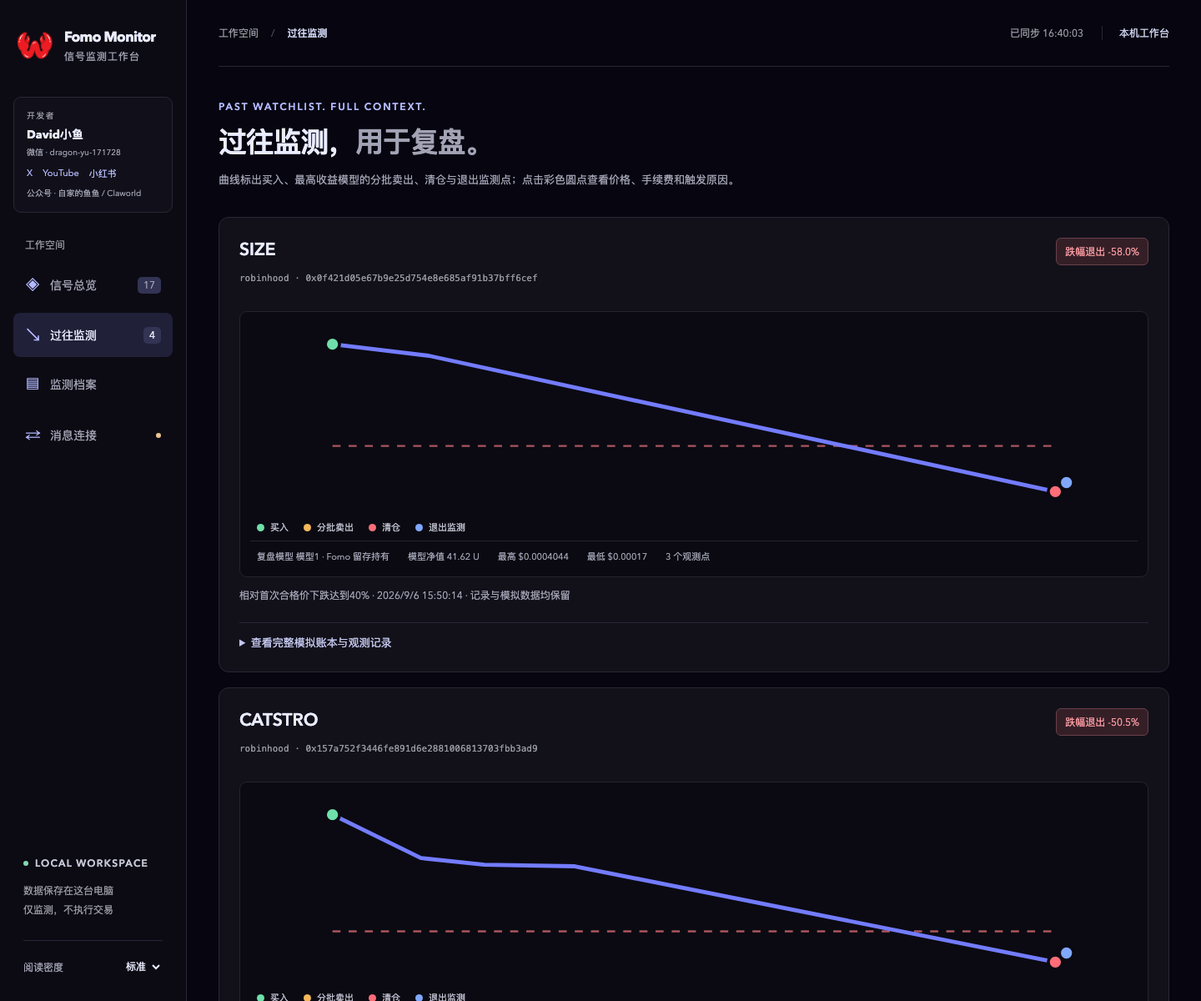
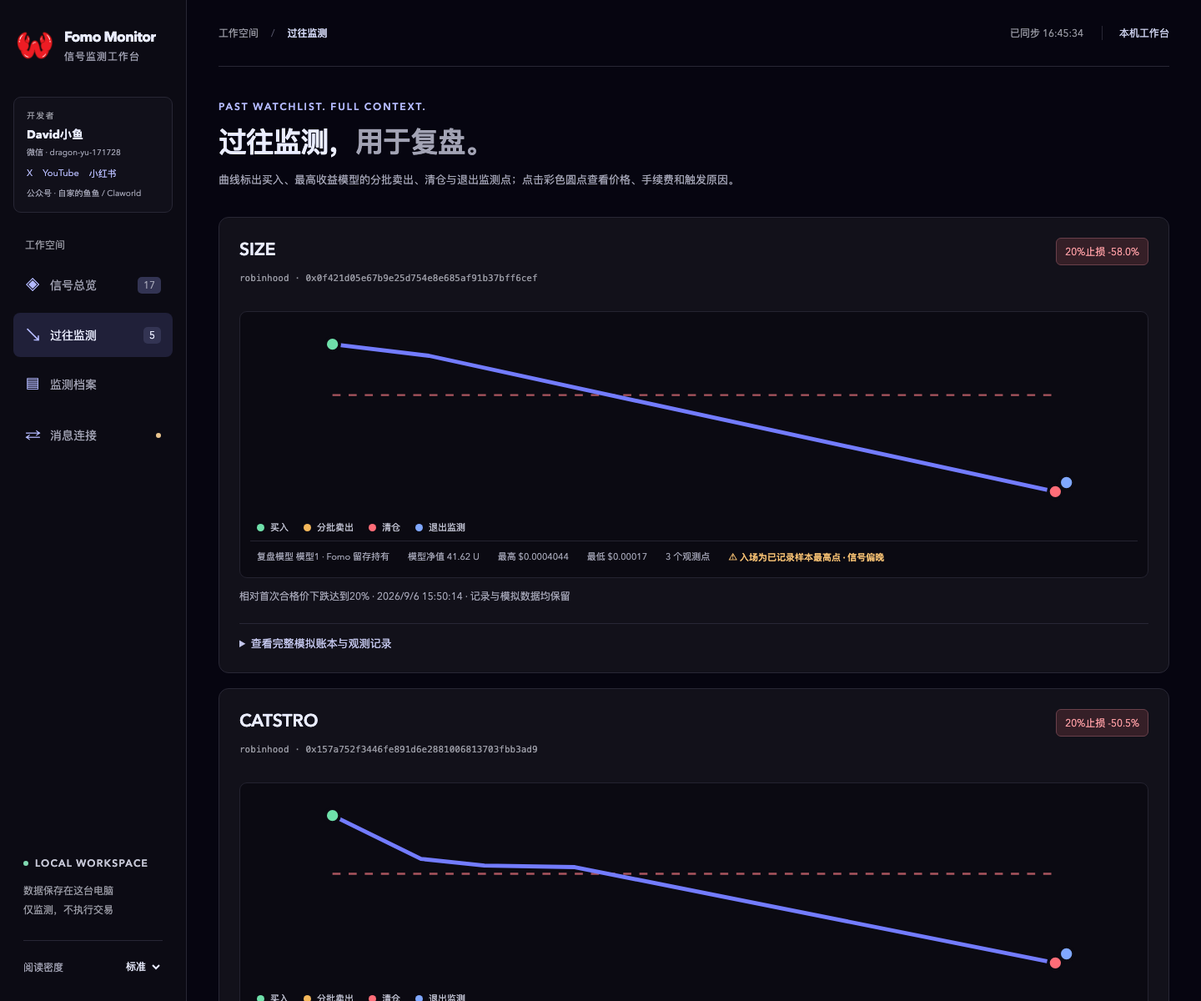
Tighten stop loss and filter late entries

diff --git a/monitor/static/portfolio.js b/monitor/static/portfolio.js
@@ -68,7 +68,7 @@ function priceCurve(t){
  if(!prices.length)return root;
  const models=t.simulation?.models||[],best=models.reduce((winner,m)=>!winner||m.net_value>winner.net_value?m:winner,null);
  const clearReasons=new Set(['stop_loss','fomo_below_15','fomo_retention']);
- const actionNames={recover_principal:'2倍回本卖出',halve_at_4x:'4倍卖出剩余一半',runner_recover:'2.5倍目标回收',stop_loss:'跌幅40%清仓',fomo_below_15:'Fomo低于15%清仓',fomo_retention:'Fomo留存条件清仓'};
+ const actionNames={recover_principal:'2倍回本卖出',halve_at_4x:'4倍卖出剩余一半',runner_recover:'2.5倍目标回收',stop_loss:'跌幅20%强制止损',fomo_below_15:'Fomo低于15%清仓',fomo_retention:'Fomo留存条件清仓'};
  const markers=[];
  if(best){
   for(const tx of best.trades||[]){
@@ -77,12 +77,12 @@ function priceCurve(t){
   }
  }
  if(t.archive?.archived_at)markers.push({kind:'archive',time:t.archive.archived_at,price:Number.isFinite(t.archive.trigger_price)?t.archive.trigger_price:t.latest.price,title:'退出监测'});
- const markerPrices=markers.map(m=>m.price).filter(Number.isFinite),low=Math.min(...prices,...markerPrices,t.entry.price*.60),high=Math.max(...prices,...markerPrices,t.entry.price),span=high-low||high*.01||1;
+ const markerPrices=markers.map(m=>m.price).filter(Number.isFinite),low=Math.min(...prices,...markerPrices,t.entry.price*.80),high=Math.max(...prices,...markerPrices,t.entry.price),span=high-low||high*.01||1;
  const sampleTimes=samples.map(s=>new Date(s.observed_at).getTime()),start=Math.min(...sampleTimes),end=Math.max(...sampleTimes),timeSpan=end-start;
  const xTime=time=>{const ms=new Date(time).getTime();return p+(w-p*2)*(timeSpan&&Number.isFinite(ms)?Math.max(0,Math.min(1,(ms-start)/timeSpan)):.5);};
  const x=(s,i)=>timeSpan?xTime(s.observed_at):p+(w-p*2)*(samples.length===1?.5:i/(samples.length-1)),y=v=>p+(h-p*2)*(high-v)/span;
  const svg=document.createElementNS('http://www.w3.org/2000/svg','svg');svg.setAttribute('viewBox',`0 0 ${w} ${h}`);svg.setAttribute('role','group');svg.setAttribute('aria-label',t.name+' 历史价格曲线与交易节点');
- const stop=document.createElementNS(svg.namespaceURI,'line');for(const [k,v] of Object.entries({x1:p,x2:w-p,y1:y(t.entry.price*.60),y2:y(t.entry.price*.60)}))stop.setAttribute(k,v);stop.setAttribute('class','stop-line');svg.append(stop);
+ const stop=document.createElementNS(svg.namespaceURI,'line');for(const [k,v] of Object.entries({x1:p,x2:w-p,y1:y(t.entry.price*.80),y2:y(t.entry.price*.80)}))stop.setAttribute(k,v);stop.setAttribute('class','stop-line');svg.append(stop);
  const path=document.createElementNS(svg.namespaceURI,'polyline');path.setAttribute('points',samples.map((s,i)=>x(s,i)+','+y(s.price)).join(' '));path.setAttribute('class','price-line');svg.append(path);
  const note=el('div','marker-note');note.hidden=true;
  const showMarker=m=>{
@@ -98,14 +98,14 @@ function priceCurve(t){
  markers.forEach(m=>{const baseX=xTime(m.time),baseY=y(m.price),key=Math.round(baseX)+'/'+Math.round(baseY),slot=occupied.get(key)||0;occupied.set(key,slot+1);const offsets=[[0,0],[11,-9],[-11,9],[17,8],[-17,-8]],offset=offsets[slot%offsets.length];const group=document.createElementNS(svg.namespaceURI,'g');group.setAttribute('class','chart-marker marker-'+m.kind);group.setAttribute('role','button');group.setAttribute('tabindex','0');group.setAttribute('aria-label',m.title+'，价格 '+fmtPrice(m.price));group.setAttribute('transform',`translate(${baseX+offset[0]} ${baseY+offset[1]})`);const hit=document.createElementNS(svg.namespaceURI,'circle');hit.setAttribute('r','13');hit.setAttribute('class','marker-hit');const dot=document.createElementNS(svg.namespaceURI,'circle');dot.setAttribute('r','7');dot.setAttribute('class','marker-dot');group.append(hit,dot);group.addEventListener('click',()=>showMarker(m));group.addEventListener('keydown',e=>{if(e.key==='Enter'||e.key===' '){e.preventDefault();showMarker(m);}});svg.append(group);});
  root.append(svg);
  const legend=el('div','chart-legend');for(const [kind,label] of [['buy','买入'],['sell','分批卖出'],['clear','清仓'],['archive','退出监测']]){const item=el('span','');item.append(el('i','legend-dot '+kind),document.createTextNode(label));legend.append(item);}root.append(legend);
- const meta=el('div','chart-meta');meta.append(el('span','',`复盘模型 ${best?modelNames[best.id]||best.id:'—'}`),el('span','',`模型净值 ${best?fmtU(best.net_value):'—'}`),el('span','',`最高 ${fmtPrice(Math.max(...prices))}`),el('span','',`最低 ${fmtPrice(Math.min(...prices))}`),el('span','',`${samples.length} 个观测点`));root.append(meta,note);return root;
+ const meta=el('div','chart-meta'),entryAtSamplePeak=t.entry.price>=Math.max(...prices)*.999;meta.append(el('span','',`复盘模型 ${best?modelNames[best.id]||best.id:'—'}`),el('span','',`模型净值 ${best?fmtU(best.net_value):'—'}`),el('span','',`最高 ${fmtPrice(Math.max(...prices))}`),el('span','',`最低 ${fmtPrice(Math.min(...prices))}`),el('span','',`${samples.length} 个观测点`));if(entryAtSamplePeak)meta.append(el('span','entry-quality-warning','⚠ 入场为已记录样本最高点 · 信号偏晚'));root.append(meta,note);return root;
 }
 function renderHistory(){
  if(!portfolioData)return;const rows=portfolioData.history||[],root=$('historyList');root.replaceChildren();$('historyCount').textContent=rows.length;
  if(!rows.length){root.append(el('div','empty','暂无退出主清单的标的'));return;}
  for(const t of rows){
   const card=el('article','history-card'),head=el('div','history-head'),identity=el('div');identity.append(el('h2','',t.name),el('p','',t.chain+' · '+t.ca));
-  const change=t.archive.trigger_change_percent;head.append(identity,el('span','history-reason',t.archive.kind==='price_stop'?'跌幅退出 '+fmtPct(change):'资格退出'));card.append(head,priceCurve(t));
+  const change=t.archive.trigger_change_percent;head.append(identity,el('span','history-reason',t.archive.kind==='price_stop'?'20%止损 '+fmtPct(change):'资格退出'));card.append(head,priceCurve(t));
   const note=el('p','history-note',t.archive.reason+' · '+new Date(t.archive.archived_at).toLocaleString('zh-CN')+' · 记录与模拟数据均保留');card.append(note);
   const detail=el('details','history-detail');detail.append(el('summary','','查看完整模拟账本与观测记录'),tokenDetail(t));card.append(detail);root.append(card);
  }
@@ -117,7 +117,7 @@ function tokenDetail(t){
  for(const m of t.simulation.models){
   const card=el('section','model-box');card.append(el('h4','',modelNames[m.id]||m.id),el('strong',m.pnl>=0?'profit':'loss',signedU(m.pnl)));
   for(const [label,value] of [['已回收净现金',fmtU(m.cash)],['剩余代币',m.remaining_percent.toFixed(2)+'%'],['剩余仓位市值',fmtU(m.remaining_gross_value)],['已扣平台费用',fmtU(m.paid_fees)],['剩余仓位预估平台费',fmtU(m.liquidation_fee)],['平台费后估算总值',fmtU(m.net_value)]]){const line=el('div','model-line');line.append(el('span','',label),el('b','',value));card.append(line);}
-  card.append(el('p','fee-explainer',({stop_loss:'已按40%跌幅线清仓退出',fomo_below_15:'Fomo 确认低于15%，已按当次观测价清仓全部',fomo_retention:'连续两次留存条件成立，已退出',principal_recovered_then_halved:'已回本，并在后续4倍观测减半',principal_recovered:'已净收回100U，等待后续4倍',principal_recovery_unreachable:'费用过高，当前仓位不足以净回本',runner_recover_100:'已净收100U，剩余仓位继续持有',runner_recover_110:'已净收110U，剩余仓位继续持有',runner_recovery_unreachable:'费用过高，当前仓位不足以完成回收',no_2x_observed:'尚未观测到2倍',no_2_5x_observed:'尚未观测到2.5倍',no_exit_trigger:'尚未满足退出条件'})[m.reason]||m.status));
+  card.append(el('p','fee-explainer',({stop_loss:'已按20%强制止损线清仓退出',fomo_below_15:'Fomo 确认低于15%，已按当次观测价清仓全部',fomo_retention:'连续两次留存条件成立，已退出',principal_recovered_then_halved:'已回本，并在后续4倍观测减半',principal_recovered:'已净收回100U，等待后续4倍',principal_recovery_unreachable:'费用过高，当前仓位不足以净回本',runner_recover_100:'已净收100U，剩余仓位继续持有',runner_recover_110:'已净收110U，剩余仓位继续持有',runner_recovery_unreachable:'费用过高，当前仓位不足以完成回收',no_2x_observed:'尚未观测到2倍',no_2_5x_observed:'尚未观测到2.5倍',no_exit_trigger:'尚未满足退出条件'})[m.reason]||m.status));
   const trades=el('details');trades.append(el('summary','', '逐笔模拟交易 · '+m.trades.length+' 笔'));
   for(const tx of m.trades){const p=el('div','trade-item');p.textContent=(tx.type==='buy'?'买入':tx.type==='sell'?'卖出':tx.type)+' · '+tx.time+'\n价格 '+fmtPrice(tx.price)+' / 平台费 '+fmtU(tx.fee)+'（'+(tx.effective_fee_rate*100).toFixed(3)+'%）'+' / 净额 '+fmtU(tx.net);trades.append(p);}card.append(trades);grid.append(card);
  }

diff --git a/monitor/static/index.html b/monitor/static/index.html
@@ -13,7 +13,7 @@
 <div class="page-heading"><div><div class="eyebrow">YOUR SIGNAL. YOUR EDGE.</div><h1>从首次命中，<span>看到费后收益。</span></h1><p>每个标的 100U · 三套策略平行回放 · 每次卖出单独扣费</p></div><button id="refresh" class="primary refresh-button">↻&nbsp; 立即核验</button></div>
 <section class="portfolio-summary"><article><label>每个标的投入</label><strong>100 <small>U</small></strong><p id="portfolioInvested">等待载入基线</p></article><article><label>后续价格覆盖</label><strong id="portfolioCoverage">—</strong><p>没有后续价格时明确标为待采样</p></article><article><label>选中模型 · 平台费后估算盈亏</label><strong id="portfolioPnl">—</strong><p id="portfolioScope">不含仅有入场样本的标的</p></article></section>
 <div class="metrics"><article><span class="metric-label">本地已记录命中</span><strong id="hitCount">—</strong><small>最近 100 条事件中的新信号</small></article><article><span class="metric-label">等待推送</span><strong id="pending">—</strong><small><span id="sent">0</span> 条已完成全部通道推送</small></article><article class="channel-metric"><span class="metric-label">消息通道</span><strong id="deliveryStatus">等待配置</strong><small id="deliveryDetail">飞书与 Telegram 可同时推送</small><button class="text-button" data-view="connect">管理连接 ↗</button></article></div>
-<div class="overview-grid"><div class="signal-area"><div class="section-head"><div><h2>持仓观察 <span id="portfolioCount"></span></h2><p>下跌达到40%立即转入过往监测；资格变化连续3轮不符合后转入</p></div><input id="search" type="search" aria-label="搜索名称或合约" placeholder="搜索名称 / CA"></div><div class="filter-tabs" role="group" aria-label="筛选信号"><button class="selected" data-filter="all">全部</button><button data-filter="strong">强信号</button><button data-filter="watch">观察信号</button><button data-filter="pending">待推送</button></div><section class="model-controls"><label>观察模型<select id="modelSelect"><option value="hold">模型1 · Fomo 留存持有</option><option value="recover2" selected>模型2 · 2倍回本 / 4倍减半</option><option value="runner25">模型3A · 2.5倍净收100U</option><option value="runner25_110">模型3B · 2.5倍净收110U</option></select></label><span>按标的所在链 · 每笔金额独立计费</span><input id="buyFee" value="6" type="hidden"><input id="sellFee" value="6" type="hidden"><button id="recalculate" class="secondary">刷新计算</button></section>
+<div class="overview-grid"><div class="signal-area"><div class="section-head"><div><h2>持仓观察 <span id="portfolioCount"></span></h2><p>相对模拟买入价下跌20%立即止损；资格变化连续3轮不符合后转入</p></div><input id="search" type="search" aria-label="搜索名称或合约" placeholder="搜索名称 / CA"></div><div class="filter-tabs" role="group" aria-label="筛选信号"><button class="selected" data-filter="all">全部</button><button data-filter="strong">强信号</button><button data-filter="watch">观察信号</button><button data-filter="pending">待推送</button></div><section class="model-controls"><label>观察模型<select id="modelSelect"><option value="hold">模型1 · Fomo 留存持有</option><option value="recover2" selected>模型2 · 2倍回本 / 4倍减半</option><option value="runner25">模型3A · 2.5倍净收100U</option><option value="runner25_110">模型3B · 2.5倍净收110U</option></select></label><span>按标的所在链 · 每笔金额独立计费</span><input id="buyFee" value="6" type="hidden"><input id="sellFee" value="6" type="hidden"><button id="recalculate" class="secondary">刷新计算</button></section>
 <p class="fee-explainer">按当前官方平台费用规则回放：BSC/Robinhood等每笔0.5%，Solana按每笔金额分档。网络费（Solana由平台承担）、代币税费及价格冲击未完整核验，显示的是平台费后估算收益，不是全部成本后的实际收益。</p>
 <div class="portfolio-toolbar"><span id="portfolioStatus">正在读取观测账本…</span><label>排序 <select id="portfolioSort"><option value="profit_desc">净盈亏从高到低</option><option value="profit_asc">净盈亏从低到高</option><option value="recent">最新采样</option><option value="waiting">待采样优先</option></select></label></div>
 <div id="portfolioTable"></div><p class="fee-explainer">点击一行「比较模型」查看四个分支的收益、剩余仓位和逐笔买卖费用。模型3的两个分支是对照方案，不重复计入投入。</p>

diff --git a/monitor/static/style.css b/monitor/static/style.css
@@ -10,3 +10,4 @@
 .history-card{background:var(--panel);border:1px solid var(--line);border-radius:12px;padding:24px;margin-bottom:18px}.history-head{display:flex;align-items:flex-start;justify-content:space-between;gap:18px}.history-head h2{font-size:21px}.history-head p{font:11px/1.7 Menlo,monospace;color:var(--quiet);overflow-wrap:anywhere}.history-reason{color:#ff9fa5;background:#351f27;border:1px solid #69404a;border-radius:6px;padding:7px 10px;font-size:12px;white-space:nowrap}.history-chart{margin:18px 0 12px;background:#0b0a12;border:1px solid #242330;border-radius:9px;padding:12px}.history-chart svg{display:block;width:100%;height:auto;max-height:230px}.price-line{fill:none;stroke:#737cff;stroke-width:4;stroke-linecap:round;stroke-linejoin:round}.stop-line{stroke:#df6f78;stroke-width:2;stroke-dasharray:8 8;opacity:.75}.chart-meta{display:flex;flex-wrap:wrap;gap:10px 22px;color:var(--muted);font-size:11px;padding:4px 8px}.history-note{font-size:12px;color:var(--muted);line-height:1.8}.history-detail{border-top:1px solid var(--line);padding-top:14px}.history-detail>.token-detail{margin-top:18px}@media(max-width:800px){.history-card{padding:17px}.history-head{display:block}.history-reason{display:inline-block;margin-top:8px}.chart-meta{gap:6px 12px}}
 .positions-table tr.fomo-exit{background:linear-gradient(90deg,rgba(196,51,67,.20),rgba(106,24,35,.06))}.positions-table tr.fomo-exit td:first-child{box-shadow:inset 4px 0 #e05f6a}.exit-badge{color:#ffe4e6;background:#5b202a;border:1px solid #d34f5d;font-weight:700}.exit-value .cell-main,.exit-text{color:#ff969e!important;font-weight:700}.exit-text{font-size:11px;margin-top:7px}
 .chart-marker{cursor:pointer;outline:none}.marker-hit{fill:transparent}.marker-dot{stroke:#0b0a12;stroke-width:3;transition:r .15s,filter .15s}.marker-buy .marker-dot,.legend-dot.buy,.marker-note-dot.buy{fill:#6fe0aa;background:#6fe0aa}.marker-sell .marker-dot,.legend-dot.sell,.marker-note-dot.sell{fill:#f5b85b;background:#f5b85b}.marker-clear .marker-dot,.legend-dot.clear,.marker-note-dot.clear{fill:#ff6d78;background:#ff6d78}.marker-archive .marker-dot,.legend-dot.archive,.marker-note-dot.archive{fill:#80a8ff;background:#80a8ff}.chart-marker:hover .marker-dot,.chart-marker:focus .marker-dot{r:9;filter:drop-shadow(0 0 6px currentColor)}.chart-legend{display:flex;flex-wrap:wrap;gap:8px 18px;padding:8px;color:#c0c2d2;font-size:11px}.chart-legend span{display:flex;align-items:center;gap:7px}.legend-dot,.marker-note-dot{width:9px;height:9px;border-radius:50%;display:inline-block;flex:none}.marker-note{margin:9px 7px 5px;padding:13px 15px;background:#171623;border:1px solid #3c3b52;border-radius:8px}.marker-note-head{display:flex;align-items:center;gap:9px}.marker-note-head strong{font-size:13px}.marker-note-close{margin-left:auto;border:0;background:transparent;color:var(--muted);font-size:20px;line-height:1;padding:0 3px}.marker-note p{margin:8px 0 0;color:var(--muted);font-size:11px;line-height:1.8}.chart-meta{border-top:1px solid #242330;padding-top:10px}
+.entry-quality-warning{color:#f4bf72!important;font-weight:600}

diff --git a/monitor/test_simulation.py b/monitor/test_simulation.py
@@ -57,7 +57,7 @@ class SimulationTests(unittest.TestCase):
                     sample("2026-09-06T00:01:00+00:00", gross / initial_units),
                 ], fee_schedule="solana")
                 model = self.model(result, "hold")
-                if gross / initial_units < entry_price * 0.5:
+                if gross / initial_units <= entry_price * 0.8:
                     trade = model["trades"][1]
                     self.assertAlmostEqual(trade["gross"], gross)
                     self.assertAlmostEqual(trade["fee"], expected_fee)
@@ -218,22 +218,22 @@ class SimulationTests(unittest.TestCase):
         self.assertEqual(model["status"], "exited")
         self.assertAlmostEqual(model["trades"][1]["price"], 14.0)
 
-    def test_forty_percent_stop_is_inclusive_and_terminal(self):
+    def test_twenty_percent_stop_is_inclusive_and_terminal(self):
         result = simulate([
             sample("2026-09-06T00:00:00+00:00", 10.0),
-            sample("2026-09-06T00:01:00+00:00", 6.1),
-            sample("2026-09-06T00:02:00+00:00", 6.0),
+            sample("2026-09-06T00:01:00+00:00", 8.1),
+            sample("2026-09-06T00:02:00+00:00", 8.0),
             sample("2026-09-06T00:03:00+00:00", 40.0),
         ])
         for model in result["models"]:
             self.assertEqual(model["status"], "stopped")
             self.assertTrue(model["terminal"])
             self.assertEqual(len(model["trades"]), 2)
-            self.assertAlmostEqual(model["trades"][1]["price"], 6.0)
+            self.assertAlmostEqual(model["trades"][1]["price"], 8.0)
             self.assertAlmostEqual(model["remaining_units"], 0.0)
         at_boundary = simulate([
             sample("2026-09-06T00:00:00+00:00", 10.0),
-            sample("2026-09-06T00:01:00+00:00", 6.1),
+            sample("2026-09-06T00:01:00+00:00", 8.1),
         ])
         self.assertNotEqual(self.model(at_boundary, "hold")["status"], "stopped")
 

diff --git a/monitor/test_portfolio.py b/monitor/test_portfolio.py
@@ -42,11 +42,11 @@ class PortfolioTests(unittest.TestCase):
   self.assertEqual(portfolio.watch_state([point(1,False,'r1'),point(2,False,'r2'),point(3,False,'r3')])['status'],'removed')
   self.assertEqual(portfolio.watch_state([point(1,False,'r1'),point(2,True,'r2')])['ineligible_streak'],0)
 
- def test_forty_percent_decline_moves_token_to_history_with_samples(self):
+ def test_twenty_percent_decline_moves_token_to_history_with_samples(self):
   portfolio.register(self.base)
-  portfolio.add_sample(dict(self.base,observed_at='2026-09-05T02:00:00+08:00',price=.61,source='gmgn'))
+  portfolio.add_sample(dict(self.base,observed_at='2026-09-05T02:00:00+08:00',price=.81,source='gmgn'))
   self.assertEqual(len(portfolio.report()['tokens']),1)
-  portfolio.add_sample(dict(self.base,observed_at='2026-09-05T03:00:00+08:00',price=.60,source='gmgn'))
+  portfolio.add_sample(dict(self.base,observed_at='2026-09-05T03:00:00+08:00',price=.80,source='gmgn'))
   report=portfolio.report()
   self.assertEqual(report['tokens'],[])
   self.assertEqual(len(report['history']),1)

diff --git a/monitor/portfolio.py b/monitor/portfolio.py
@@ -121,11 +121,11 @@ def watch_state(observations):
 
 def archive_state(meta, observations, watch):
     """Return the first terminal archive trigger while preserving every observation."""
-    stop_price=meta['price']*.60
+    stop_price=meta['price']*.80
     breach=next((sample for sample in observations if sample['price']<=stop_price),None)
     if breach:
         decline=(breach['price']/meta['price']-1)*100
-        return {'archived':True,'reason':'相对首次合格价下跌达到40%',
+        return {'archived':True,'reason':'相对首次合格价下跌达到20%',
                 'kind':'price_stop','archived_at':breach['observed_at'],
                 'trigger_price':breach['price'],'trigger_change_percent':decline}
     if watch['status']=='removed':

diff --git a/monitor/simulation.py b/monitor/simulation.py
@@ -17,7 +17,7 @@ from typing import Any, Dict, List, Optional, Tuple
 
 _RATIO_EXIT = 15.0
 _HOLDER_RETENTION = 0.20
-_STOP_MULTIPLE = 0.60
+_STOP_MULTIPLE = 0.80
 _RECOVER_MULTIPLE = 2.0
 _RUNNER_MULTIPLE = 2.5
 _HALF_MULTIPLE = 4.0

diff --git a/monitor/PORTFOLIO.md b/monitor/PORTFOLIO.md
@@ -6,7 +6,7 @@
 
 每轮对已登记代币刷新真实价格（即使不再满足初筛市值也需跟踪），使用 `python3 monitor/bridge.py sample 文件.json` 写入：chain、ca、observed_at、price、source（如windvane、fomo、gmgn）、fomo_ratio_lower/upper（未核验则不填）、fomo_holders（未核验则不填）、confirmation:false（手动/短周期采样），price_estimated:false，以及note。定时两小时核验才可confirmation:true，程序还会限制两次确认至少间隔两小时。不要携带上一轮Fomo数据充当新核验。仅观察到下界≥14.5%不能确认低于15%；退出需要upper<15或人数低于峰值20%。
 
-全部已登记标的可通过本机 GET http://127.0.0.1:8765/api/portfolio 读取；或在monitor目录调用portfolio.report()。相对首次合格价下跌达到40%的标的立即记终值、模拟清算并转入“过往监测”，不等待3轮；全部样本、账本和曲线继续保留。模型1独立退出不影响其他模型仍未清仓的价格采样。
+全部已登记标的可通过本机 GET http://127.0.0.1:8765/api/portfolio 读取；或在monitor目录调用portfolio.report()。相对模拟买入价下跌达到20%的标的立即记终值、模拟清算并转入“过往监测”，不等待3轮；全部样本、账本和曲线继续保留。模型1独立退出不影响其他模型仍未清仓的价格采样。
 
 无法获取新价格时不要制造sample，报告哪些标的待采样及原因。页面保留真实最后观测时间，初始一笔样本标为等待后续采样。
 
@@ -14,7 +14,9 @@
 
 每轮筛选同时为每个仍在主清单中的标的写入一次资格判断。sample 增加 `watch_round`（本轮唯一标识）、`watch_eligible`（布尔值）和 `eligibility_reason`（说明仍符合或不符合哪项规则）。只有同一轮的一次判断计数；价格补采、手动刷新或两小时生命周期样本不能重复充当新一轮。只有取得足以判断年龄、市值和 Fomo 下界的本轮证据才写资格判断；登录、配额、来源故障或关键数据缺失时不写这些字段，也不推进移出轮次。
 
-最新首次命中的标的在主清单高亮为“最新入选 · 当前规则观察点”，只表示它是最新通过规则的观测，不是确定买入建议。首次 `watch_eligible:false` 标记“可能移出 1/3轮”；连续第二轮仍不符合显示 2/3轮；连续第三轮仍不符合后转入“过往监测”。任意一轮重新符合会把计数清零。价格跌幅达到40%则立即转入，不使用3轮等待。转入只停止主清单展示与重点筛选，不删除 SQLite 样本、事件或 Markdown 档案。
+新候选的第一次合格观测只进入待确认，不登记基线、不模拟买入、不发送正式命中。下一独立扫描仍满足三项筛选条件，且实测价格不高于首次候选价时，才以第二次价格登记基线和模拟买入；连续三轮价格都高于首次候选价则放弃该候选。本规则用于减少追高，不代表能确认真正最高点。候选状态保存在自动化任务上下文和本机数据目录，不能用同轮重复查询完成确认。
+
+最新首次命中的标的在主清单高亮为“最新入选 · 当前规则观察点”，只表示它是最新通过规则的观测，不是确定买入建议。首次 `watch_eligible:false` 标记“可能移出 1/3轮”；连续第二轮仍不符合显示 2/3轮；连续第三轮仍不符合后转入“过往监测”。任意一轮重新符合会把计数清零。价格跌幅达到20%则立即转入，不使用3轮等待。转入只停止主清单展示与重点筛选，不删除 SQLite 样本、事件或 Markdown 档案。
 
 手续费采用下方当前逐链平台费规则，其他未核验成本单列；费用计算由simulation.py负责，采样任务不手写或覆盖引擎账本。每次卖出逐笔扣费；剩余仓位假设清算费用单独显示，不混为已付费用。三个模型为平行比较，不能把四个分支的本金或收益相加。
 

diff --git a/monitor/automation/fomo-monitor-prompt.md b/monitor/automation/fomo-monitor-prompt.md
@@ -4,7 +4,7 @@
 
 扫描 GMGN 支持的 Robinhood、BSC、Solana、Base、Ethereum 热搜。候选必须创建 1–7 天、当前市值 20万–50万美元，并通过 Windvane 按完整 CA 核验。Fomo 持仓占比下界至少 15% 才命中；15%–20% 为观察信号，20% 以上为强信号。不得用 Top10、DS 或其他百分比替代 Fomo 占比。
 
-发现新命中后，立即用 `bridge.py baseline` 登记首次合格观测，用 `bridge.py event` 入队消息，不等待整轮结束。对已有标的刷新真实价格，并按两小时间隔做生命周期确认。达到 2、3、5、10 倍、从采样高点回撤 25%、相对首次合格价下跌达到40%，或模拟策略触发时入队提醒。跌幅达到40%立即记录终值并停止重点跟踪，转入过往监测，不等待3轮；历史样本与档案全部保留。没有新事件且状态未变化时保持静默。
+第一次发现满足基础条件的新候选时只保存待确认，不登记 baseline、不模拟买入、不发送正式命中。下一独立扫描仍满足年龄、市值与 Fomo 条件，且实测价格不高于首次候选价时，才用 `bridge.py baseline` 以第二次价格登记模拟买点，并用 `bridge.py event` 入队正式命中；连续三轮价格都高于首次候选价则放弃候选。候选状态持久化到本机数据目录，不能用同轮重复查询完成确认。对已有标的刷新真实价格，并按两小时间隔做生命周期确认。达到 2、3、5、10 倍、从采样高点回撤 25%、相对模拟买入价下跌达到20%，或模拟策略触发时入队提醒。跌幅达到20%立即模拟清仓、记录终值并停止重点跟踪，转入过往监测，不等待3轮；历史样本与档案全部保留。没有新事件且状态未变化时保持静默。
 
 每一轮还要依据 `PORTFOLIO.md` 为主清单内每个标的记录一次 `watch_round`、`watch_eligible` 和 `eligibility_reason`。不再符合年龄、市值或 Fomo 下界规则的标的先标记可能移出；连续3个不同筛选轮次仍不符合后才从主清单隐藏，期间重新符合立即清零。只有本轮三项资格数据完整可核验时才写这些字段；登录、配额、来源故障或关键数据缺失不算失败轮次。不得删除历史样本或档案。
 

diff --git a/CHANGELOG.md b/CHANGELOG.md
@@ -1,5 +1,11 @@
 # 更新日志
 
+## 0.4.1 - 2026-09-06
+
+- 强制止损从相对模拟买入价下跌40%收紧为20%，历史模拟按首个触线样本重新回放。
+- 历史曲线标出20%止损线，并提示“入场为已记录样本最高点”的偏晚信号。
+- 新候选增加跨轮价格确认：第二轮仍合格且不高于首次候选价才登记模拟买入，连续三轮高于候选价则放弃。
+
 ## 0.4.0 - 2026-09-06
 
 - 过往监测价格曲线增加首次模拟买入、最高收益模型的分批卖出、清仓和退出监测标记。
